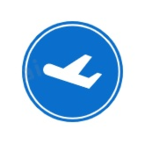
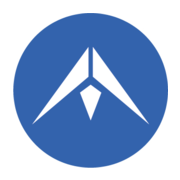
cambios+ redirect

diff --git a/src/views/Profile.vue b/src/views/Profile.vue
@@ -1,8 +1,8 @@
 <template>
   <v-container grid-list-md text-xs-center>
     <v-layout row wrap>
-      <v-flex xs12>
-        <v-img class="elevation-5" width="100%" src="./logo.jpg"></v-img>
+    <v-flex xs12 class="white">
+        <v-img class="elevation-5 "  max-height="80px" contain :src="require('../../public/logo_landaway_rectangular.jpg')"></v-img>
       </v-flex>
       <v-flex xs12>
         <v-layout row>
@@ -28,6 +28,7 @@
                 <v-spacer></v-spacer>
                 <v-avatar class="mr-3" size="30px" color="grey lighten-4">
                   <img
+                    max-height="98px" max-width="97px"
                     :src="user!=null?user.user.photoURL||require('../../public/nouser.png'):require('../../public/nouser.png')"
                     alt="avatar"
                   >
@@ -587,6 +588,9 @@ export default {
   display: flex;
   justify-content: center;
   align-items: center;
+}
+.white{
+  background-color: white;
 }
 .layout.text-center.big.row.align-items-center.justify-content-center {
   height: 60px;

diff --git a/src/views/Register.vue b/src/views/Register.vue
@@ -1,8 +1,8 @@
 <template>
   <v-container grid-list-md text-xs-center>
     <v-layout row wrap>
-      <v-flex xs12>
-        <v-img class="elevation-5" width="100%" src="./logo.jpg"></v-img>
+       <v-flex xs12 class="white">
+        <v-img class="elevation-5 "  max-height="80px" contain :src="require('../../public/logo_landaway_rectangular.jpg')"></v-img>
       </v-flex>
       <v-flex class="separated"></v-flex>
       <v-flex xs12>
@@ -111,6 +111,9 @@ export default {
 <style>
 .container.grid-list-md.text-xs-center {
   background-color: #b2b2f1;
+}
+.white{
+  background-color: white;
 }
 .separated100 {
   margin-top: 100px;

diff --git a/src/views/Login.vue b/src/views/Login.vue
@@ -1,8 +1,8 @@
 <template>
   <v-container grid-list-md text-xs-center>
     <v-layout row wrap>
-      <v-flex xs12>
-        <v-img class="elevation-5" width="100%" src="./logo.jpg"></v-img>
+     <v-flex xs12 class="white">
+        <v-img class="elevation-5 " max-height="200px" contain :src="require('../../public/logo_landaway_cuadrat.jpg')"></v-img>
       </v-flex>
       <v-flex xs12>
         <v-card class="elevation-5">
@@ -189,7 +189,9 @@ export default {
 .container.grid-list-md.text-xs-center {
   background-color: #b2b2f1;
 }
-
+.white{
+  background-color: white;
+}
 .separated {
   margin-top: 50px;
 }

diff --git a/src/views/Home.vue b/src/views/Home.vue
@@ -1,8 +1,8 @@
 <template>
   <v-container grid-list-md text-xs-center>
     <v-layout row wrap>
-      <v-flex xs12>
-        <v-img class="elevation-5" width="100%" src="./logo.jpg"></v-img>
+      <v-flex xs12 class="white">
+        <v-img class="elevation-5 "  max-height="80px" contain :src="require('../../public/logo_landaway_rectangular.jpg')"></v-img>
       </v-flex>
       <v-flex xs12>
         <v-layout row>
@@ -200,7 +200,9 @@ export default {
 .text-justify {
   text-align: justify;
 }
-
+.white{
+  background-color: white;
+}
 .my-span {
   font-weight: bold;
   text-align: center;

diff --git a/src/views/Forgot.vue b/src/views/Forgot.vue
@@ -1,8 +1,8 @@
 <template>
   <v-container grid-list-md text-xs-center>
     <v-layout row wrap>
-      <v-flex xs12>
-        <v-img class="elevation-5" width="100%" src="./logo.jpg"></v-img>
+   <v-flex xs12 class="white">
+        <v-img class="elevation-5 "  max-height="80px" contain :src="require('../../public/logo_landaway_rectangular.jpg')"></v-img>
       </v-flex>
       <v-flex class="separated"></v-flex>
       <v-flex xs12>
@@ -128,6 +128,9 @@ export default {
 }
 .height1 {
   height: 1px;
+}
+.white{
+  background-color: white;
 }
 .separated100 {
   margin-top: 100px;

diff --git a/src/views/Myflights.vue b/src/views/Myflights.vue
@@ -1,8 +1,8 @@
 <template>
   <v-container grid-list-md text-xs-center>
     <v-layout row wrap>
-      <v-flex xs12>
-        <v-img class="elevation-5" width="100%" src="../logo.jpg"></v-img>
+      <v-flex xs12 class="white">
+        <v-img class="elevation-5 "  max-height="80px" contain :src="require('../../public/logo_landaway_rectangular.jpg')"></v-img>
       </v-flex>
       <v-flex xs12>
         <v-layout row>
@@ -269,7 +269,9 @@ export default {
 .separated100 {
   margin-top: 100px;
 }
-
+.white{
+  background-color: white;
+}
 .justy{
   text-align: justify;
 }

diff --git a/src/views/Flights.vue b/src/views/Flights.vue
@@ -1,8 +1,8 @@
 <template>
   <v-container grid-list-md text-xs-center>
     <v-layout row wrap>
-      <v-flex xs12>
-        <v-img class="elevation-5" width="100%" src="../logo.jpg"></v-img>
+    <v-flex xs12 class="white">
+        <v-img class="elevation-5 "  max-height="80px" contain :src="require('../../public/logo_landaway_rectangular.jpg')"></v-img>
       </v-flex>
       <v-flex xs12>
         <v-layout row>
@@ -459,6 +459,9 @@ export default {
 }
 .none{
   text-decoration: none;
+}
+.white{
+  background-color: white;
 }
 .w300 {
   width: 300px;

diff --git a/public/index.html b/public/index.html
@@ -9,7 +9,8 @@
      content='width=device-width, initial-scale=1.0, maximum-scale=1.0, user-scalable=no'>
     <title>LandAway</title>
     <link rel="stylesheet" href="https://fonts.googleapis.com/css?family=Roboto:100,300,400,500,700,900">
-    <link rel="stylesheet" href="https://fonts.googleapis.com/css?family=Material+Icons">   
+    <link rel="stylesheet" href="https://fonts.googleapis.com/css?family=Material+Icons">
+    <link rel="icon" type="image/jpg" href="logo_landaway_imago.jpg">
   </head>
   <body>
 

diff --git a/src/views/AdminChat.vue b/src/views/AdminChat.vue
@@ -70,7 +70,7 @@ export default {
         "mdi-emoticon-sad",
         "mdi-emoticon-tongue"
       ],
-      id: ''
+      id: "4F4UE0ej4HeUkyx2scjGnihHCWT2"
     };
   },
   methods: {
@@ -140,4 +140,7 @@ export default {
 </script>
 
 <style>
+.white{
+  background-color: white;
+}
 </style>
